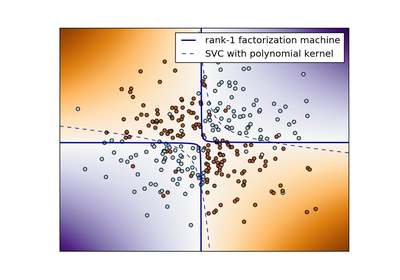
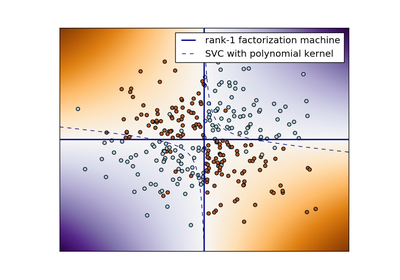
Pushing the docs for revision for branch: master, commit a37100ce8e0f37d3117b9b219c1e6cb48c28edd1

diff --git a/searchindex.js b/searchindex.js
@@ -1,1 +1,1 @@
-Search.setIndex({envversion:49,filenames:["auto_examples/index","auto_examples/plot_regularization_path","auto_examples/plot_xor","generated/polylearn.FactorizationMachineClassifier","generated/polylearn.FactorizationMachineRegressor","generated/polylearn.PolynomialNetworkClassifier","generated/polylearn.PolynomialNetworkRegressor","generated/polylearn.kernels.anova_kernel","generated/polylearn.kernels.homogeneous_kernel","generated/polylearn.kernels.safe_power","index","references"],objects:{"polylearn.FactorizationMachineClassifier":{__init__:[3,5,1,""],decision_function:[3,5,1,""],fit:[3,5,1,""],get_params:[3,5,1,""],predict:[3,5,1,""],predict_proba:[3,5,1,""],score:[3,5,1,""],set_params:[3,5,1,""]},"polylearn.FactorizationMachineRegressor":{__init__:[4,5,1,""],fit:[4,5,1,""],get_params:[4,5,1,""],predict:[4,5,1,""],score:[4,5,1,""],set_params:[4,5,1,""]},"polylearn.PolynomialNetworkClassifier":{__init__:[5,5,1,""],decision_function:[5,5,1,""],fit:[5,5,1,""],get_params:[5,5,1,""],predict:[5,5,1,""],predict_proba:[5,5,1,""],score:[5,5,1,""],set_params:[5,5,1,""]},"polylearn.PolynomialNetworkRegressor":{__init__:[6,5,1,""],fit:[6,5,1,""],get_params:[6,5,1,""],predict:[6,5,1,""],score:[6,5,1,""],set_params:[6,5,1,""]},"polylearn.kernels":{anova_kernel:[7,7,1,""],homogeneous_kernel:[8,7,1,""],safe_power:[9,7,1,""]},polylearn:{FactorizationMachineClassifier:[3,4,1,""],FactorizationMachineRegressor:[4,4,1,""],PolynomialNetworkClassifier:[5,4,1,""],PolynomialNetworkRegressor:[6,4,1,""],factorization_machine:[11,6,0,"-"],polynomial_network:[11,6,0,"-"]}},objnames:{"0":["np","class","Python class"],"1":["np","method","Python method"],"2":["np","module","Python module"],"3":["np","function","Python function"],"4":["py","class","Python class"],"5":["py","method","Python method"],"6":["py","module","Python module"],"7":["py","function","Python function"]},objtypes:{"0":"np:class","1":"np:method","2":"np:module","3":"np:function","4":"py:class","5":"py:method","6":"py:module","7":"py:function"},terms:{"boolean":[3,4,5,6],"case":[2,10],"class":[3,4,5,6],"default":[3,4,5,6,7,8,9],"float":[3,4,5,6],"function":[2,3,4,5],"import":[1,2],"int":[3,4,5,6,7,8,9],"new":[3,4,5,6,10],"public":[3,4,5,6],"return":[3,4,5,6,7,8,9],"true":[1,3,4,5,6],__doc__:[1,2],__init__:[3,4,5,6],_ij:9,account:[3,4,5,6],accuraci:[3,5],add:[2,3,4,5,6],akinori:[3,4,5,6,10],algorithm:[3,4,5,6,10],alia:8,all:[3,4,5,6],alpha:[1,3,4],altern:[3,4],alwai:[3,4,6],amount:[1,3,4,5,6],analysi:7,ani:[3,4,5,6],anova:7,api:10,append:1,arbitrari:10,arbitrarili:[4,6],arrai:[3,4,5,6,7,8,9],arxiv:10,aspect:2,assum:10,attribut:[1,3,4,5,6],augment:[3,4,5,6],author:[1,2],auto:2,auto_exampl:2,avail:[3,4,5,6,10],axi:2,base:2,basi:[3,4],becaus:[4,6,10],been:10,befor:[3,5],best:[4,6],beta:[1,3,4,5,6],better:1,between:[7,8],binari:10,blondel:[3,4,5,6,10],boston:1,both:[1,9],boundari:0,bsd:[1,2],build:10,can:[2,3,4,6,10],captur:[3,4,5,6,10],classif:[3,5,10,11],clearer:1,clone:10,cmap:2,code:[1,2],coef0:1,coeffici:[4,6],collect:2,column:[3,4,5,6],com:10,common:10,comparison:2,compat:10,compil:10,complet:[3,4,10],compon:[3,4,5,6],comput:[1,3,4,5,6,10],computation:10,compute_loss:[3,4,5,6],condit:[3,4,5,6],constant:[4,6],contain:[3,4,5,6],contour:2,contour_fm:2,contour_svc:2,control:10,conveni:8,converg:[3,4,5,6],coordin:[3,4,10],correctli:[3,5],correspond:[3,4,5,6],cristianini:7,cross_valid:1,current:[3,4,5,6],cython:10,dash:2,data:[1,3,4,5,6,9],data_split:1,datapoint:2,dataset:[1,3,4,5,6],debug:[3,4,5,6],decis:0,decision_funct:[2,3,5],deep:[3,4,5,6],defin:[4,6],degre:[1,2,3,4,5,6,7,8,9,10],dens:9,descent:[3,4,10],determin:[4,6],develop:10,dimens:[3,4,5,6],direct:10,directli:[3,4],disregard:[4,6],doe:[3,4,5,6],down:[3,4,5,6],dummi:[3,4,5,6],each:[2,3,4,5,6],easi:2,effici:[1,5,6,10],efficient:[3,4,5,6,10],element:9,entri:9,error:1,estim:[3,4,5,6],estimat:[3,4,5,6],even:[3,4,10],everi:[3,4,5,6],everywher:[3,4,5,6],exist:[3,4,5,6],exp:[3,5],expect:[4,6],explicit:[3,4],extent:2,extra:[3,4,5,6],factor:0,factorizationmachineclassifi:2,fals:[3,4,5,6],featur:[1,2,3,4,5,6,10],fit:[1,2,3,4,5,6,10],fit_intercept:1,fit_linear:[3,4,5,6],fit_low:[3,4,5,6],fit_transform:1,flip:2,form:[3,4,5,6],former:[3,4,5,6],from:[1,2,3,5,10],fujino:[3,4,5,6,10],gamma:1,gener:[3,4,5,6,10],get:[3,4,5,6],get_param:[3,4,5,6],git:10,github:10,given:[3,4,5,6],gram:[7,8],grid:2,harsh:[3,5],have:[3,4,5,6,10],haven:10,higher:[1,3,4,5,6,10],hing:[3,5],homogen:[3,4,5,6,8],how:[1,3,4,5,6],html:2,http:[2,3,4,5,6,10],hyperparamet:1,icdm:10,icml2016:[3,4,5,6],icml:[3,4,5,6,10],ieee:[3,4,10],implement:10,impli:6,improv:[3,4],imshow:2,inform:[3,4,5,6],init_lambda:[3,4],initi:[3,4,5,6],input:[4,6],insight:[3,4,5,6,10],instal:10,instanc:[3,4,5,6],intens:10,interact:[2,3,4,5,6,10],interpol:2,introduc:10,ishihata:[3,4,5,6,10],issu:[3,4,5,6],iter:[3,4,5,6],john:7,k_a:7,k_p:8,kernel:[1,2,3,4],kernel_ridg:1,kernelridg:1,label:[1,3,5],lambda:[3,4],lams_:[3,4],learn:[2,3,4,5,6,10],legend:[1,2],level:2,librari:[0,10],licens:[1,2],lift:[5,6,10],lightn:10,like:[3,4,5,6],linear:[1,3,4,5,6],linear_model:1,linearli:2,linestyl:2,linewidth:2,linspac:2,livni:[5,6,10],load_boston:1,log:[3,5],logical_xor:2,logist:[3,5],logspac:1,loss:[2,3,4,5,6],low:[3,4,10],lower:[2,3,4,5,6],machin:0,mai:[3,4,5,6],make:1,map:[3,4,5,6],masakazu:[3,4,5,6,10],mathieu:[3,4,5,6,10],matplotlib:[1,2],matrix:[3,4,5,6,7,8,10],max:[2,3,5],max_it:[3,4,5,6],maximum:[3,4,5,6],mblondel:[3,4,5,6],mean:[1,3,4,5,6],mean_squared_error_scor:1,meshgrid:2,method:[3,4,5,6,7],metric:[1,3,5],min:2,minut:[1,2],model:[2,3,4,5,6,10],multi:[3,5],n_alpha:1,n_compon:[1,2,3,4,5,6],n_featur:[2,3,4,5,6,7,8],n_order:[3,4],n_output:[3,4,5,6],n_sampl:[3,4,5,6],n_samples_1:[7,8],n_samples_2:[7,8],name:[3,4,5,6],naonori:[3,4,5,6,10],ndarrai:[7,8,9],nearest:2,necessari:1,neg:[4,6],negat:1,nello:7,nest:[3,4,5,6],network:[0,1,3,4,5,6,10],neural:[5,6,10],nicula:[1,2,10],nips:[5,6,10],nois:2,noisi:2,non:[2,3,4,5,6],none:[3,4,5,6],note:6,number:[2,3,4,5,6],numpi:[1,2,10],nusvc:2,object:[3,4,5,6],observ:10,occurr:10,ohad:[5,6,10],onli:[3,4,5,6],only:[3,4,5],optim:1,option:[3,4,5,6],order:[3,4,5,6,10],org:[2,3,4,5,6],origin:2,output:[3,4,5,6],over:[3,4,5,6],p_i1:7,p_i2:7,p_id:7,packag:10,pair:2,param:[2,3,4,5,6],paramet:[2,3,4,5,6,7,8,9],parametr:[3,4,5,6],part:10,pass:[3,4,5,6],path:0,pattern:7,pdf:[3,4,5,6,10],perfect:2,perform:[3,4,5,6],pipelin:[3,4,5,6],plot:0,plot_regularization_path:1,plot_svm_nonlinear:2,plot_xor:2,plt:[1,2],poli:[1,2],polylearn:[0,1,2],polynomi:[0,1,2,3,4,5,6,8,10],polynomialnetworkregressor:1,popular:10,posit:[3,5],possibl:[3,4,5,6],power:9,pre:[3,4,5,6],predict:[3,4,5,6],predict_proba:[3,5],preprocess:1,present:[3,4,10],print:[1,2,3,4,5,6],probabl:[3,5],problem:2,proc:10,proceed:[3,4,5,6],provid:10,pseudo:[3,4,5,6],puor_r:2,pyplot:[1,2],python:[1,2,10],rais:9,randint:2,randn:2,random:[2,3,4,5,6],random_sign:[3,4],random_st:[1,2,3,4,5,6],randomst:[2,3,4,5,6],rank:[1,2,3,4,10],ravel:[1,2],recommend:10,refer:[3,4,5,6],regress:[4,6,10,11],regular:0,rendl:[3,4,10],repositori:10,represent:10,requir:[3,4,5],reshap:[1,2],residu:[4,6],restart:0,ridg:1,rng:2,robustli:2,roi:[5,6,10],run:[1,2],runtim:[3,4,5,6],same:9,sampl:[3,4,5,6],sample_weight:[3,4,5,6],scale:1,scaler_i:1,scaler_x:1,scatter:2,scikit:[2,10],score:[3,4,5,6],scorer:1,second:[1,2],section:7,see:7,seed:[3,4,5,6],self:[3,4,5,6],semilogx:1,separ:[2,3,4],set:[3,4,5,6],set_param:[1,3,4,5,6],setup:10,shai:[5,6,10],shalev:[5,6,10],shamir:[5,6,10],shape:[2,3,4,5,6,7,8,9],shaw:7,show:[1,2],shwartz:[5,6,10],sign:[3,4],simpl:[3,4,5,6],simplifi:[1,2],sinc:[3,5],size:2,sklearn:[1,2],slow:[3,4,5,6],small:2,solut:[3,4,5,6],solver:10,sourc:[1,2,3,4,5,6,7,8,9],spars:[3,4,5,6,9,10],squar:[1,3,4,5,6],squared_hing:[2,3,5],stabl:2,standardscal:1,steffen:[3,4,10],stop:[3,4,5,6],string:[3,4,5,6],subobject:[3,4,5,6],subset:[3,5],sudo:10,sum:[4,6],sum_i1:7,support:[3,4,5,6,9],svc:2,svm:2,system:10,target:[1,3,4,5,6],taylor:7,tensor:[5,6],term:[3,4,5,6,10],test:[3,4,5,6],test_ms:1,test_scores_kernel:1,test_scores_poli:1,test_scores_ridg:1,test_siz:1,thei:10,theoret:[3,4],thi:[1,2,3,4,5,6,10],threshold:[3,5],through:10,time:[1,2,10],tol:[1,3,4,5,6],toler:[3,4,5,6],too:2,total:[1,2],train:[3,4,5,6,10],train_test_split:1,transform:1,type:10,ueda:[3,4,5,6,10],unit:1,updat:[3,4,5,6],useful:[3,4,5,6],valu:[3,4,5,6],varianc:1,vector:[3,4,5,6],vene:[1,2,10],verbos:[3,4,5,6],veri:[2,10],version:10,vlad:[1,2,10],wai:10,warm:0,warm_start:[1,3,4,5,6],weight:[3,4,5,6,10],well:[3,4,5,6],when:1,where:[3,4,5,6],whether:[3,4,5,6],which:[3,5,9],whose:9,wise:9,with_mean:1,with_std:1,work:[3,4,5,6,10],wors:[4,6],would:[4,6],wrt:[3,4,5,6],x_i1:7,x_i2:7,x_id:7,x_ret:9,x_test:1,x_test_sc:1,x_train:1,x_train_sc:1,xlabel:1,xor:0,xtick:2,y_pred:[3,4,5,6],y_score:[3,5],y_test:1,y_test_sc:1,y_train:1,y_train_sc:1,y_true:[4,6],yet:10,ylabel:1,ylim:1,you:[3,5,10],ytick:2,z_svc:2,zero:1},titles:["Examples","Plotting regularization paths using warm restarts.","Factorization machine decision boundary for XOR","polylearn.FactorizationMachineClassifier","polylearn.FactorizationMachineRegressor","polylearn.PolynomialNetworkClassifier","polylearn.PolynomialNetworkRegressor","polylearn.kernels.anova_kernel","polylearn.kernels.homogeneous_kernel","polylearn.kernels.safe_power","polylearn","polylearn reference"],titleterms:{anova_kernel:7,author:10,boundari:2,comput:11,decis:2,exampl:0,factor:[2,11],factorizationmachineclassifi:3,factorizationmachineregressor:4,higher:11,homogeneous_kernel:8,installat:10,kernel:[7,8,9,11],machin:[2,11],network:11,order:11,path:1,plot:1,polylearn:[3,4,5,6,7,8,9,10,11],polynomi:11,polynomialnetworkclassifi:5,polynomialnetworkregressor:6,refer:[10,11],regular:1,restart:1,safe_pow:9,utiliti:11,warm:1,xor:2}})
+Search.setIndex({envversion:49,filenames:["auto_examples/index","auto_examples/plot_regularization_path","auto_examples/plot_xor","generated/polylearn.FactorizationMachineClassifier","generated/polylearn.FactorizationMachineRegressor","generated/polylearn.PolynomialNetworkClassifier","generated/polylearn.PolynomialNetworkRegressor","generated/polylearn.kernels.anova_kernel","generated/polylearn.kernels.homogeneous_kernel","generated/polylearn.kernels.safe_power","index","references"],objects:{"polylearn.FactorizationMachineClassifier":{__init__:[3,5,1,""],decision_function:[3,5,1,""],fit:[3,5,1,""],get_params:[3,5,1,""],predict:[3,5,1,""],predict_proba:[3,5,1,""],score:[3,5,1,""],set_params:[3,5,1,""]},"polylearn.FactorizationMachineRegressor":{__init__:[4,5,1,""],fit:[4,5,1,""],get_params:[4,5,1,""],predict:[4,5,1,""],score:[4,5,1,""],set_params:[4,5,1,""]},"polylearn.PolynomialNetworkClassifier":{__init__:[5,5,1,""],decision_function:[5,5,1,""],fit:[5,5,1,""],get_params:[5,5,1,""],predict:[5,5,1,""],predict_proba:[5,5,1,""],score:[5,5,1,""],set_params:[5,5,1,""]},"polylearn.PolynomialNetworkRegressor":{__init__:[6,5,1,""],fit:[6,5,1,""],get_params:[6,5,1,""],predict:[6,5,1,""],score:[6,5,1,""],set_params:[6,5,1,""]},"polylearn.kernels":{anova_kernel:[7,7,1,""],homogeneous_kernel:[8,7,1,""],safe_power:[9,7,1,""]},polylearn:{FactorizationMachineClassifier:[3,4,1,""],FactorizationMachineRegressor:[4,4,1,""],PolynomialNetworkClassifier:[5,4,1,""],PolynomialNetworkRegressor:[6,4,1,""],factorization_machine:[11,6,0,"-"],polynomial_network:[11,6,0,"-"]}},objnames:{"0":["np","class","Python class"],"1":["np","method","Python method"],"2":["np","module","Python module"],"3":["np","function","Python function"],"4":["py","class","Python class"],"5":["py","method","Python method"],"6":["py","module","Python module"],"7":["py","function","Python function"]},objtypes:{"0":"np:class","1":"np:method","2":"np:module","3":"np:function","4":"py:class","5":"py:method","6":"py:module","7":"py:function"},terms:{"boolean":[3,4,5,6],"case":[2,10],"class":[3,4,5,6],"default":[3,4,5,6,7,8,9],"float":[3,4,5,6],"function":[2,3,4,5],"import":[1,2],"int":[3,4,5,6,7,8,9],"new":[3,4,5,6,10],"public":[3,4,5,6],"return":[3,4,5,6,7,8,9],"true":[1,3,4,5,6],__doc__:[1,2],__init__:[3,4,5,6],_ij:9,account:[3,4,5,6],accuraci:[3,5],add:[2,3,4,5,6],akinori:[3,4,5,6,10],algorithm:[3,4,5,6,10],alia:8,all:[3,4,5,6],alpha:[1,3,4],altern:[3,4],alwai:[3,4,6],amount:[1,3,4,5,6],analysi:7,ani:[3,4,5,6],anova:7,api:10,append:1,arbitrari:10,arbitrarili:[4,6],arrai:[3,4,5,6,7,8,9],arxiv:10,aspect:2,assum:10,attribut:[1,3,4,5,6],augment:[3,4,5,6],author:[1,2],auto:2,auto_exampl:2,avail:[3,4,5,6,10],axi:2,base:2,basi:[3,4],becaus:[4,6,10],been:10,befor:[3,5],best:[4,6],beta:[1,3,4,5,6],better:1,between:[7,8],binari:10,blondel:[3,4,5,6,10],boston:1,both:[1,9],boundari:0,bsd:[1,2],build:10,can:[2,3,4,6,10],captur:[3,4,5,6,10],classif:[3,5,10,11],clearer:1,clone:10,cmap:2,code:[1,2],coef0:1,coeffici:[4,6],collect:2,column:[3,4,5,6],com:10,common:10,comparison:2,compat:10,compil:10,complet:[3,4,10],compon:[3,4,5,6],comput:[1,3,4,5,6,10],computation:10,compute_loss:[3,4,5,6],condit:[3,4,5,6],constant:[4,6],contain:[3,4,5,6],contour:2,contour_fm:2,contour_svc:2,control:10,conveni:8,converg:[3,4,5,6],coordin:[3,4,10],correctli:[3,5],correspond:[3,4,5,6],cristianini:7,cross_valid:1,current:[3,4,5,6],cython:10,dash:2,data:[1,3,4,5,6,9],data_split:1,datapoint:2,dataset:[1,3,4,5,6],debug:[3,4,5,6],decis:0,decision_funct:[2,3,5],deep:[3,4,5,6],defin:[4,6],degre:[1,2,3,4,5,6,7,8,9,10],dens:9,descent:[3,4,10],determin:[4,6],develop:10,dimens:[3,4,5,6],direct:10,directli:[3,4],disregard:[4,6],doe:[3,4,5,6],down:[3,4,5,6],dummi:[3,4,5,6],each:[2,3,4,5,6],easi:2,effici:[1,5,6,10],efficient:[3,4,5,6,10],element:9,entri:9,error:1,estim:[3,4,5,6],estimat:[3,4,5,6],even:[3,4,10],everi:[3,4,5,6],everywher:[3,4,5,6],exist:[3,4,5,6],exp:[3,5],expect:[4,6],explicit:[3,4],extent:2,extra:[3,4,5,6],factor:0,factorizationmachineclassifi:2,fals:[3,4,5,6],featur:[1,2,3,4,5,6,10],fit:[1,2,3,4,5,6,10],fit_intercept:1,fit_linear:[2,3,4,5,6],fit_low:[3,4,5,6],fit_transform:1,flip:2,form:[3,4,5,6],former:[3,4,5,6],from:[1,2,3,5,10],fujino:[3,4,5,6,10],gamma:1,gener:[3,4,5,6,10],get:[3,4,5,6],get_param:[3,4,5,6],git:10,github:10,given:[3,4,5,6],gram:[7,8],grid:2,harsh:[3,5],have:[3,4,5,6,10],haven:10,higher:[1,3,4,5,6,10],hing:[3,5],homogen:[3,4,5,6,8],how:[1,3,4,5,6],html:2,http:[2,3,4,5,6,10],hyperparamet:1,icdm:10,icml2016:[3,4,5,6],icml:[3,4,5,6,10],ieee:[3,4,10],implement:10,impli:6,improv:[3,4],imshow:2,inform:[3,4,5,6],init_lambda:[3,4],initi:[3,4,5,6],input:[4,6],insight:[3,4,5,6,10],instal:10,instanc:[3,4,5,6],intens:10,interact:[2,3,4,5,6,10],interpol:2,introduc:10,ishihata:[3,4,5,6,10],issu:[3,4,5,6],iter:[3,4,5,6],john:7,k_a:7,k_p:8,kernel:[1,2,3,4],kernel_ridg:1,kernelridg:1,label:[1,3,5],lambda:[3,4],lams_:[3,4],learn:[2,3,4,5,6,10],legend:[1,2],level:2,librari:[0,10],licens:[1,2],lift:[5,6,10],lightn:10,like:[3,4,5,6],linear:[1,3,4,5,6],linear_model:1,linearli:2,linestyl:2,linewidth:2,linspac:2,livni:[5,6,10],load_boston:1,log:[3,5],logical_xor:2,logist:[3,5],logspac:1,loss:[3,4,5,6],low:[3,4,10],lower:[2,3,4,5,6],machin:0,mai:[3,4,5,6],make:1,map:[3,4,5,6],masakazu:[3,4,5,6,10],mathieu:[3,4,5,6,10],matplotlib:[1,2],matrix:[3,4,5,6,7,8,10],max:[2,3,5],max_it:[3,4,5,6],maximum:[3,4,5,6],mblondel:[3,4,5,6],mean:[1,3,4,5,6],mean_squared_error_scor:1,meshgrid:2,method:[3,4,5,6,7],metric:[1,3,5],min:2,minut:[1,2],model:[2,3,4,5,6,10],multi:[3,5],n_alpha:1,n_compon:[1,2,3,4,5,6],n_featur:[2,3,4,5,6,7,8],n_order:[3,4],n_output:[3,4,5,6],n_sampl:[3,4,5,6],n_samples_1:[7,8],n_samples_2:[7,8],name:[3,4,5,6],naonori:[3,4,5,6,10],ndarrai:[7,8,9],nearest:2,necessari:1,neg:[4,6],negat:1,nello:7,nest:[3,4,5,6],network:[0,1,3,4,5,6,10],neural:[5,6,10],nicula:[1,2,10],nips:[5,6,10],nois:2,noisi:2,non:[2,3,4,5,6],none:[2,3,4,5,6],note:6,number:[2,3,4,5,6],numpi:[1,2,10],nusvc:2,object:[3,4,5,6],observ:10,occurr:10,ohad:[5,6,10],onli:[3,4,5,6],only:[3,4,5],optim:1,option:[3,4,5,6],order:[3,4,5,6,10],org:[2,3,4,5,6],origin:2,output:[3,4,5,6],over:[3,4,5,6],p_i1:7,p_i2:7,p_id:7,packag:10,pair:2,param:[2,3,4,5,6],paramet:[2,3,4,5,6,7,8,9],parametr:[3,4,5,6],part:10,pass:[3,4,5,6],path:0,pattern:7,pdf:[3,4,5,6,10],perfect:2,perform:[3,4,5,6],pipelin:[3,4,5,6],plot:0,plot_regularization_path:1,plot_svm_nonlinear:2,plot_xor:2,plt:[1,2],poli:[1,2],polylearn:[0,1,2],polynomi:[0,1,2,3,4,5,6,8,10],polynomialnetworkregressor:1,popular:10,posit:[3,5],possibl:[3,4,5,6],power:9,pre:[3,4,5,6],predict:[3,4,5,6],predict_proba:[3,5],preprocess:1,present:[3,4,10],print:[1,2,3,4,5,6],probabl:[3,5],problem:2,proc:10,proceed:[3,4,5,6],provid:10,pseudo:[3,4,5,6],puor_r:2,pyplot:[1,2],python:[1,2,10],rais:9,randint:2,randn:2,random:[2,3,4,5,6],random_sign:[3,4],random_st:[1,2,3,4,5,6],randomst:[2,3,4,5,6],rank:[1,2,3,4,10],ravel:[1,2],recommend:10,refer:[3,4,5,6],regress:[4,6,10,11],regular:0,rendl:[3,4,10],repositori:10,represent:10,requir:[3,4,5],reshap:[1,2],residu:[4,6],restart:0,ridg:1,rng:2,robustli:2,roi:[5,6,10],run:[1,2],runtim:[3,4,5,6],same:9,sampl:[3,4,5,6],sample_weight:[3,4,5,6],scale:1,scaler_i:1,scaler_x:1,scatter:2,scikit:[2,10],score:[3,4,5,6],scorer:1,second:[1,2],section:7,see:7,seed:[3,4,5,6],self:[3,4,5,6],semilogx:1,separ:[2,3,4],set:[3,4,5,6],set_param:[1,3,4,5,6],setup:10,shai:[5,6,10],shalev:[5,6,10],shamir:[5,6,10],shape:[2,3,4,5,6,7,8,9],shaw:7,show:[1,2],shwartz:[5,6,10],sign:[3,4],simpl:[3,4,5,6],simplifi:[1,2],sinc:[3,5],size:2,sklearn:[1,2],slow:[3,4,5,6],small:2,solut:[3,4,5,6],solver:10,sourc:[1,2,3,4,5,6,7,8,9],spars:[3,4,5,6,9,10],squar:[1,3,4,5,6],squared_hing:[3,5],stabl:2,standardscal:1,steffen:[3,4,10],stop:[3,4,5,6],string:[3,4,5,6],subobject:[3,4,5,6],subset:[3,5],sudo:10,sum:[4,6],sum_i1:7,support:[3,4,5,6,9],svc:2,svm:2,system:10,target:[1,3,4,5,6],taylor:7,tensor:[5,6],term:[3,4,5,6,10],test:[3,4,5,6],test_ms:1,test_scores_kernel:1,test_scores_poli:1,test_scores_ridg:1,test_siz:1,thei:10,theoret:[3,4],thi:[1,2,3,4,5,6,10],threshold:[3,5],through:10,time:[1,2,10],tol:[1,3,4,5,6],toler:[3,4,5,6],too:2,total:[1,2],train:[3,4,5,6,10],train_test_split:1,transform:1,type:10,ueda:[3,4,5,6,10],unit:1,updat:[3,4,5,6],useful:[3,4,5,6],valu:[3,4,5,6],varianc:1,vector:[3,4,5,6],vene:[1,2,10],verbos:[3,4,5,6],veri:[2,10],version:10,vlad:[1,2,10],wai:10,warm:0,warm_start:[1,3,4,5,6],weight:[3,4,5,6,10],well:[3,4,5,6],when:1,where:[3,4,5,6],whether:[3,4,5,6],which:[3,5,9],whose:9,wise:9,with_mean:1,with_std:1,work:[3,4,5,6,10],wors:[4,6],would:[4,6],wrt:[3,4,5,6],x_i1:7,x_i2:7,x_id:7,x_ret:9,x_test:1,x_test_sc:1,x_train:1,x_train_sc:1,xlabel:1,xor:0,xtick:2,y_pred:[3,4,5,6],y_score:[3,5],y_test:1,y_test_sc:1,y_train:1,y_train_sc:1,y_true:[4,6],yet:10,ylabel:1,ylim:1,you:[3,5,10],ytick:2,z_svc:2,zero:1},titles:["Examples","Plotting regularization paths using warm restarts.","Factorization machine decision boundary for XOR","polylearn.FactorizationMachineClassifier","polylearn.FactorizationMachineRegressor","polylearn.PolynomialNetworkClassifier","polylearn.PolynomialNetworkRegressor","polylearn.kernels.anova_kernel","polylearn.kernels.homogeneous_kernel","polylearn.kernels.safe_power","polylearn","polylearn reference"],titleterms:{anova_kernel:7,author:10,boundari:2,comput:11,decis:2,exampl:0,factor:[2,11],factorizationmachineclassifi:3,factorizationmachineregressor:4,higher:11,homogeneous_kernel:8,installat:10,kernel:[7,8,9,11],machin:[2,11],network:11,order:11,path:1,plot:1,polylearn:[3,4,5,6,7,8,9,10,11],polynomi:11,polynomialnetworkclassifi:5,polynomialnetworkregressor:6,refer:[10,11],regular:1,restart:1,safe_pow:9,utiliti:11,warm:1,xor:2}})

diff --git a/auto_examples/plot_xor.html b/auto_examples/plot_xor.html
@@ -115,7 +115,7 @@
 non-linearly separable XOR problem</p>
 <p>This problem is a perfect example of feature interactions. As such,
 factorization machines can model it very robustly with a very small number of
-parameters.  (In this case, (1 + n_features) * n_components = 3 * 1 params.)</p>
+parameters.  (In this case, n_features * n_components = 2 * 1 = 2 params.)</p>
 <p>Example based on:
 <a class="reference external" href="http://scikit-learn.org/stable/auto_examples/svm/plot_svm_nonlinear.html">http://scikit-learn.org/stable/auto_examples/svm/plot_svm_nonlinear.html</a></p>
 <img alt="../_images/plot_xor_001.png" class="align-center" src="../_images/plot_xor_001.png" />
@@ -139,11 +139,11 @@ parameters.  (In this case, (1 + n_features) * n_components = 3 * 1 params.)</p>
 <span class="n">y</span> <span class="o">=</span> <span class="n">np</span><span class="o">.</span><span class="n">logical_xor</span><span class="p">(</span><span class="n">X</span><span class="p">[:,</span> <span class="mi">0</span><span class="p">]</span> <span class="o">&gt;</span> <span class="mi">0</span><span class="p">,</span> <span class="n">X</span><span class="p">[:,</span> <span class="mi">1</span><span class="p">]</span> <span class="o">&gt;</span> <span class="mi">0</span><span class="p">)</span>
 
 <span class="c1"># XOR is too easy for factorization machines, so add noise :)</span>
-<span class="n">flip</span> <span class="o">=</span> <span class="n">rng</span><span class="o">.</span><span class="n">randint</span><span class="p">(</span><span class="mi">300</span><span class="p">,</span> <span class="n">size</span><span class="o">=</span><span class="mi">20</span><span class="p">)</span>
+<span class="n">flip</span> <span class="o">=</span> <span class="n">rng</span><span class="o">.</span><span class="n">randint</span><span class="p">(</span><span class="mi">300</span><span class="p">,</span> <span class="n">size</span><span class="o">=</span><span class="mi">15</span><span class="p">)</span>
 <span class="n">y</span><span class="p">[</span><span class="n">flip</span><span class="p">]</span> <span class="o">=</span> <span class="o">~</span><span class="n">y</span><span class="p">[</span><span class="n">flip</span><span class="p">]</span>
 
 <span class="c1"># fit the model</span>
-<span class="n">fm</span> <span class="o">=</span> <span class="n">FactorizationMachineClassifier</span><span class="p">(</span><span class="n">n_components</span><span class="o">=</span><span class="mi">1</span><span class="p">,</span> <span class="n">loss</span><span class="o">=</span><span class="s1">&#39;squared_hinge&#39;</span><span class="p">,</span>
+<span class="n">fm</span> <span class="o">=</span> <span class="n">FactorizationMachineClassifier</span><span class="p">(</span><span class="n">n_components</span><span class="o">=</span><span class="mi">1</span><span class="p">,</span> <span class="n">fit_linear</span><span class="o">=</span><span class="kc">None</span><span class="p">,</span>
                                     <span class="n">random_state</span><span class="o">=</span><span class="mi">0</span><span class="p">)</span>
 <span class="n">fm</span><span class="o">.</span><span class="n">fit</span><span class="p">(</span><span class="n">X</span><span class="p">,</span> <span class="n">y</span><span class="p">)</span>
 
@@ -175,8 +175,8 @@ parameters.  (In this case, (1 + n_features) * n_components = 3 * 1 params.)</p>
 <a href="http://matplotlib.org/api/pyplot_api.html#matplotlib.pyplot.show"><span class="n">plt</span><span class="o">.</span><span class="n">show</span></a><span class="p">()</span>
 </pre></div>
 </div>
-<p><strong>Total running time of the example:</strong>  2.77 seconds
-( 0 minutes  2.77 seconds)</p>
+<p><strong>Total running time of the example:</strong>  3.03 seconds
+( 0 minutes  3.03 seconds)</p>
 </div>
 
 

diff --git a/auto_examples/plot_regularization_path.html b/auto_examples/plot_regularization_path.html
@@ -192,8 +192,8 @@ for the <cite>beta</cite> regularization hyperparameter.</p>
 <a href="http://matplotlib.org/api/pyplot_api.html#matplotlib.pyplot.show"><span class="n">plt</span><span class="o">.</span><span class="n">show</span></a><span class="p">()</span>
 </pre></div>
 </div>
-<p><strong>Total running time of the example:</strong>  26.76 seconds
-( 0 minutes  26.76 seconds)</p>
+<p><strong>Total running time of the example:</strong>  27.46 seconds
+( 0 minutes  27.46 seconds)</p>
 </div>
 
 

diff --git a/_downloads/plot_xor.py b/_downloads/plot_xor.py
@@ -8,7 +8,7 @@ non-linearly separable XOR problem
 
 This problem is a perfect example of feature interactions. As such,
 factorization machines can model it very robustly with a very small number of
-parameters.  (In this case, (1 + n_features) * n_components = 3 * 1 params.)
+parameters.  (In this case, n_features * n_components = 2 * 1 = 2 params.)
 
 Example based on:
 http://scikit-learn.org/stable/auto_examples/svm/plot_svm_nonlinear.html
@@ -32,11 +32,11 @@ X = rng.randn(300, 2)
 y = np.logical_xor(X[:, 0] > 0, X[:, 1] > 0)
 
 # XOR is too easy for factorization machines, so add noise :)
-flip = rng.randint(300, size=20)
+flip = rng.randint(300, size=15)
 y[flip] = ~y[flip]
 
 # fit the model
-fm = FactorizationMachineClassifier(n_components=1, loss='squared_hinge',
+fm = FactorizationMachineClassifier(n_components=1, fit_linear=None,
                                     random_state=0)
 fm.fit(X, y)
 
